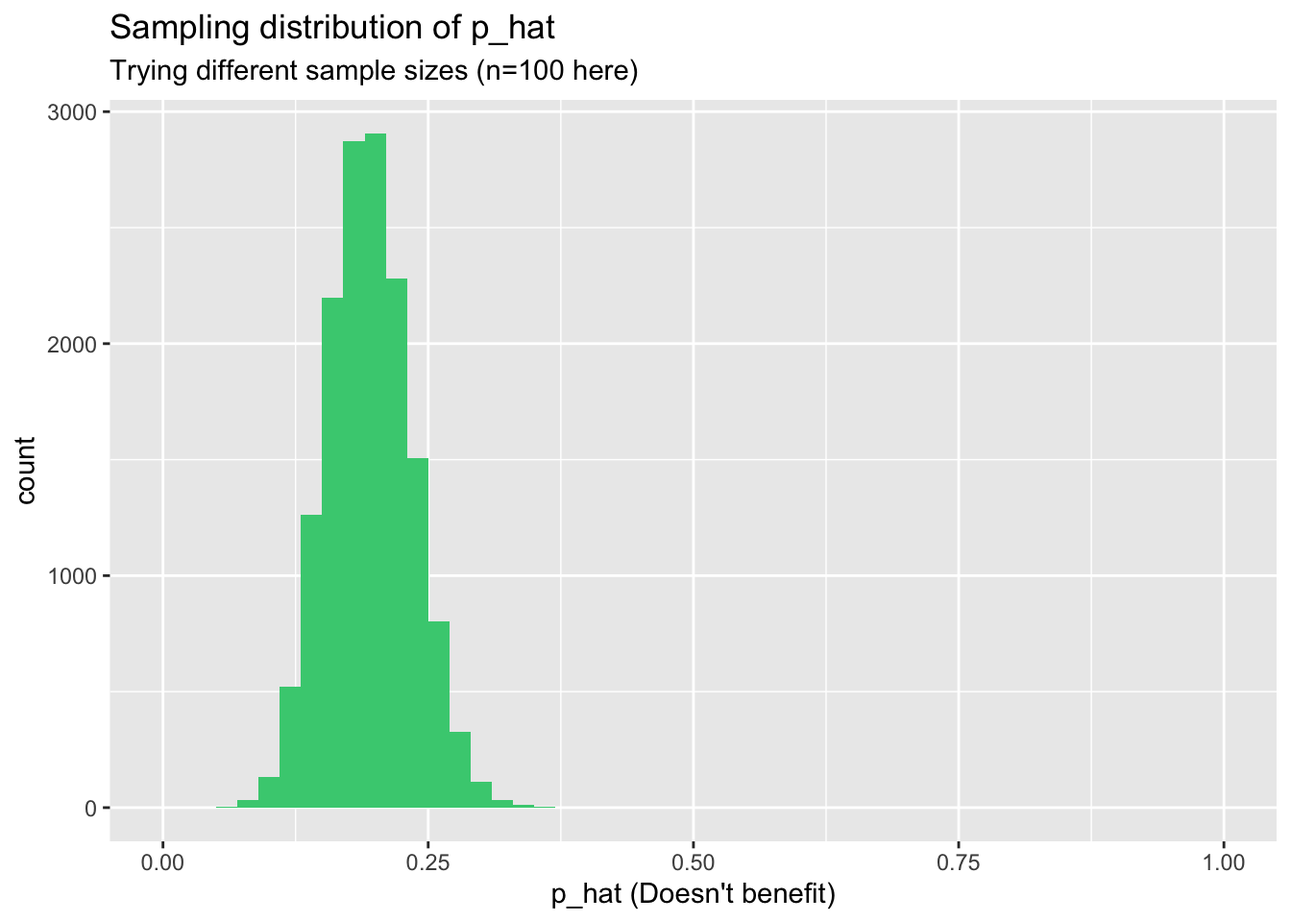
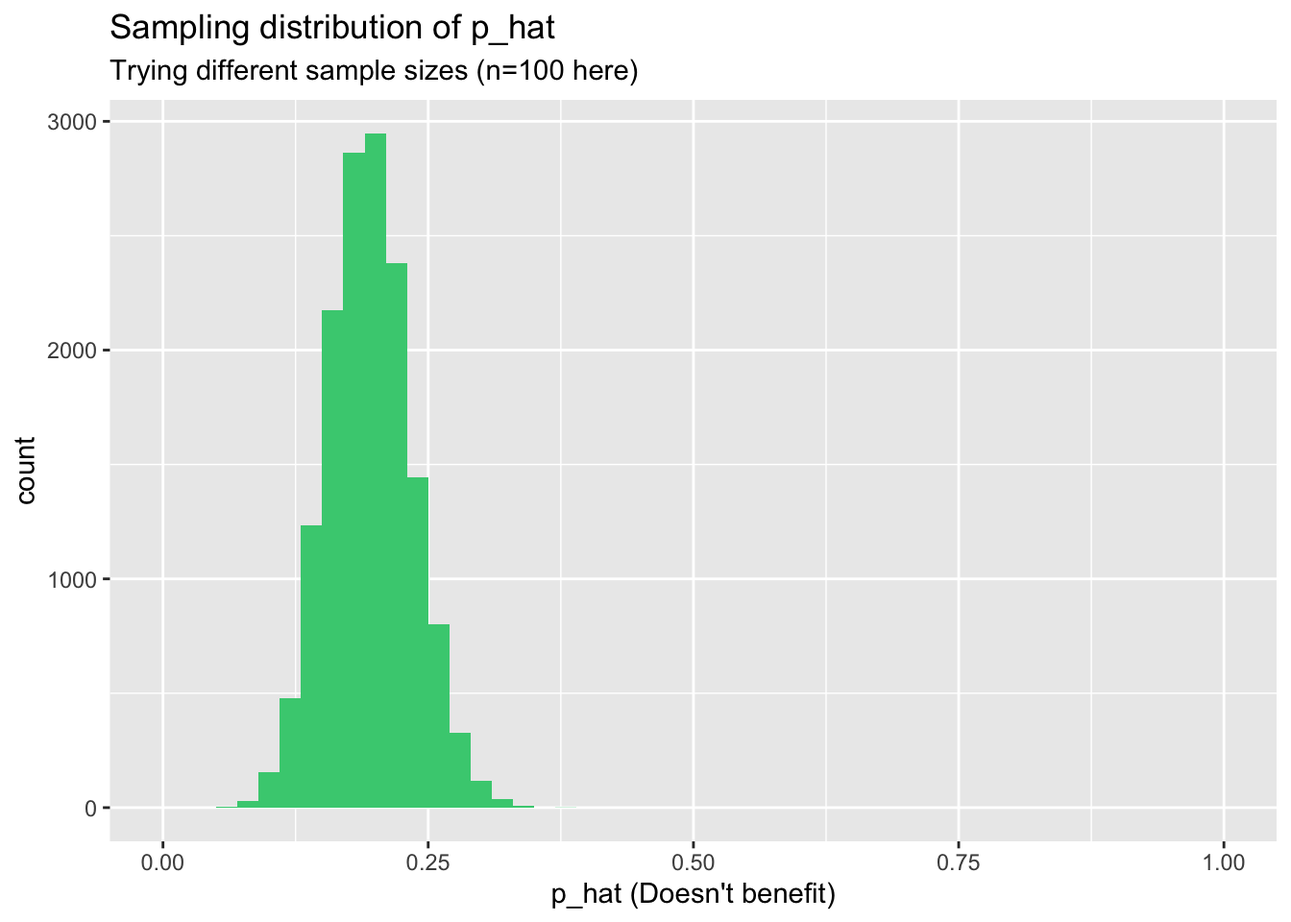
Lab 4 infer update

diff --git a/docs/S1YLab4/part-1---sampling-distributions.html b/docs/S1YLab4/part-1---sampling-distributions.html
@@ -6,7 +6,7 @@
   <meta http-equiv="X-UA-Compatible" content="IE=edge" />
   <title>Part 1 - Sampling Distributions | S1Y Lab 4</title>
   <meta name="description" content="Part 1 - Sampling Distributions | S1Y Lab 4" />
-  <meta name="generator" content="bookdown 0.35 and GitBook 2.6.7" />
+  <meta name="generator" content="bookdown 0.36 and GitBook 2.6.7" />
 
   <meta property="og:title" content="Part 1 - Sampling Distributions | S1Y Lab 4" />
   <meta property="og:type" content="book" />
@@ -220,8 +220,8 @@ We will first create our population assuming a population size of 100,000 (which
 <p>The name of the data frame is <code>global_monitor</code> and the name of the variable that contains responses to the question <em>"Do you believe that the work scientists do benefit people like you?"</em> is <code>scientist_work</code>.</p>
 <p><br></p>
 <p><strong>What would this line of code return? <code>c(rep(x, 1000), rep(y, 500))</code></strong></p>
-<div id="radio_ATRSJEHRZD" class="webex-radiogroup">
-<label><input type="radio" autocomplete="off" name="radio_ATRSJEHRZD" value=""></input> <span>vector of length 1000 all x</span></label><label><input type="radio" autocomplete="off" name="radio_ATRSJEHRZD" value="answer"></input> <span>vector of length 1500 with 1000 values of x and 500 values of y</span></label><label><input type="radio" autocomplete="off" name="radio_ATRSJEHRZD" value=""></input> <span>vector of length 500 all y</span></label><label><input type="radio" autocomplete="off" name="radio_ATRSJEHRZD" value=""></input> <span>matrix with 1000 rows of x and 500 columns of y</span></label>
+<div id="radio_QDGKFCEMBM" class="webex-radiogroup">
+<label><input type="radio" autocomplete="off" name="radio_QDGKFCEMBM" value=""></input> <span>vector of length 500 all y</span></label><label><input type="radio" autocomplete="off" name="radio_QDGKFCEMBM" value="answer"></input> <span>vector of length 1500 with 1000 values of x and 500 values of y</span></label><label><input type="radio" autocomplete="off" name="radio_QDGKFCEMBM" value=""></input> <span>matrix with 1000 rows of x and 500 columns of y</span></label><label><input type="radio" autocomplete="off" name="radio_QDGKFCEMBM" value=""></input> <span>vector of length 1000 all x</span></label>
 </div>
 <div class="webex-solution">
 <button>
@@ -282,8 +282,8 @@ Solution
 </div>
 <p><br></p>
 <p><strong>Think about how the proportions in your sample compare with the distribution of the population. Would you expect the sample distribution to be?</strong></p>
-<div id="radio_NBXYSMNLMF" class="webex-radiogroup">
-<label><input type="radio" autocomplete="off" name="radio_NBXYSMNLMF" value="answer"></input> <span>Similar to the population distribution</span></label><label><input type="radio" autocomplete="off" name="radio_NBXYSMNLMF" value=""></input> <span>Very different to the population distribution</span></label>
+<div id="radio_MVJAKRYVWT" class="webex-radiogroup">
+<label><input type="radio" autocomplete="off" name="radio_MVJAKRYVWT" value="answer"></input> <span>Similar to the population distribution</span></label><label><input type="radio" autocomplete="off" name="radio_MVJAKRYVWT" value=""></input> <span>Very different to the population distribution</span></label>
 </div>
 <div class="webex-solution">
 <button>
@@ -304,8 +304,8 @@ Hint
 <p>Depending on the 50 people selected, your estimate could be a bit above or a bit below the population proportion of 0.2. In general, though, the sample proportion turns out to be a pretty good estimate of the true population proportion, and you were able to get it by sampling less than 1% of the population, 50 out of 100000.</p>
 <p><br></p>
 <p><strong>Would you expect the sample proportion to match the sample proportion of another student's sample?</strong></p>
-<div id="radio_SRGJYVPGOV" class="webex-radiogroup">
-<label><input type="radio" autocomplete="off" name="radio_SRGJYVPGOV" value="answer"></input> <span>Similar but not necessarily the same</span></label><label><input type="radio" autocomplete="off" name="radio_SRGJYVPGOV" value=""></input> <span>Completely different</span></label><label><input type="radio" autocomplete="off" name="radio_SRGJYVPGOV" value=""></input> <span>Exactly the same</span></label>
+<div id="radio_GDTYPPSPNT" class="webex-radiogroup">
+<label><input type="radio" autocomplete="off" name="radio_GDTYPPSPNT" value=""></input> <span>Exactly the same</span></label><label><input type="radio" autocomplete="off" name="radio_GDTYPPSPNT" value=""></input> <span>Completely different</span></label><label><input type="radio" autocomplete="off" name="radio_GDTYPPSPNT" value="answer"></input> <span>Similar but not necessarily the same</span></label>
 </div>
 <div class="webex-solution">
 <button>
@@ -337,8 +337,8 @@ Solution
 <pre><code>## # A tibble: 2 × 3
 ##   scientist_work      n p_hat
 ##   &lt;chr&gt;           &lt;int&gt; &lt;dbl&gt;
-## 1 Benefits           39  0.78
-## 2 Doesn&#39;t benefit    11  0.22</code></pre>
+## 1 Benefits           41  0.82
+## 2 Doesn&#39;t benefit     9  0.18</code></pre>
 </div>
 <p><br></p>
 <p>Create 2 more samples, of size 100 and 1000 calling them <code>sample3</code> and <code>sample4</code>, and compare the proportion of people who do not believe that the work scientists do benefits them across all four samples.</p>
@@ -361,8 +361,8 @@ Solution
 <pre><code>## # A tibble: 2 × 3
 ##   scientist_work      n p_hat
 ##   &lt;chr&gt;           &lt;int&gt; &lt;dbl&gt;
-## 1 Benefits           77  0.77
-## 2 Doesn&#39;t benefit    23  0.23</code></pre>
+## 1 Benefits           81  0.81
+## 2 Doesn&#39;t benefit    19  0.19</code></pre>
 <div class="sourceCode" id="cb14"><pre class="sourceCode r"><code class="sourceCode r"><span id="cb14-1"><a href="part-1---sampling-distributions.html#cb14-1" tabindex="-1"></a>sample4 <span class="ot">&lt;-</span> global_monitor <span class="sc">%&gt;%</span> </span>
 <span id="cb14-2"><a href="part-1---sampling-distributions.html#cb14-2" tabindex="-1"></a>  <span class="fu">sample_n</span>(<span class="dv">1000</span>)</span>
 <span id="cb14-3"><a href="part-1---sampling-distributions.html#cb14-3" tabindex="-1"></a></span>
@@ -372,13 +372,13 @@ Solution
 <pre><code>## # A tibble: 2 × 3
 ##   scientist_work      n p_hat
 ##   &lt;chr&gt;           &lt;int&gt; &lt;dbl&gt;
-## 1 Benefits          798 0.798
-## 2 Doesn&#39;t benefit   202 0.202</code></pre>
+## 1 Benefits          789 0.789
+## 2 Doesn&#39;t benefit   211 0.211</code></pre>
 </div>
 <p><br></p>
 <p><strong>Looking at the new samples, of size 100 and 1000. Which would you think would provide a more precise estimate of the population mean?</strong></p>
-<div id="radio_QVUGFVOTRK" class="webex-radiogroup">
-<label><input type="radio" autocomplete="off" name="radio_QVUGFVOTRK" value=""></input> <span>Sample size 50</span></label><label><input type="radio" autocomplete="off" name="radio_QVUGFVOTRK" value=""></input> <span>Sample size 100</span></label><label><input type="radio" autocomplete="off" name="radio_QVUGFVOTRK" value="answer"></input> <span>Sample size 1000</span></label>
+<div id="radio_AQXQUBXEQH" class="webex-radiogroup">
+<label><input type="radio" autocomplete="off" name="radio_AQXQUBXEQH" value=""></input> <span>Sample size 50</span></label><label><input type="radio" autocomplete="off" name="radio_AQXQUBXEQH" value=""></input> <span>Sample size 100</span></label><label><input type="radio" autocomplete="off" name="radio_AQXQUBXEQH" value="answer"></input> <span>Sample size 1000</span></label>
 </div>
 <div class="webex-solution">
 <button>
@@ -389,29 +389,30 @@ Hint
 <p><br></p>
 <p>Not surprisingly, every time we take another random sample, you might get a different sample proportion. It's useful to get a sense of just how much variability in the sample proportions we should expect from sample to sample when estimating the population mean proportion in this way. The distribution of sample proportions, called the <em>sampling distribution (of the proportion)</em>, can help us understand this variability. See Section 5.1.2 <a href="https://www.openintro.org/redirect.php?go=os4_tablet&referrer=/stat/os4.php#page=181" target="_blank">OpenIntro Page 181</a></p>
 <p>Remember that in this lab we unusually had access to the population and therefore we can get an idea of the sampling distribution for the sample proportion by repeating the above steps many times.</p>
-<p>Here, we use the function <code>rep_sample_n</code> to take 15,000 different samples of size 50 from the population, calculate the proportion of <em>Science doesn't benefit</em> responses in each sample and store each result in a vector called <code>sample_props50</code>. The distribution of the proportions can then be visualised with a histogram.</p>
+<p>Here, we use the function <code>rep_sample_n</code>, which can be called from the <code>infer</code> package, to take 15,000 different samples of size 50 from the population, calculate the proportion of <em>Science doesn't benefit</em> responses in each sample and store each result in a vector called <code>sample_props50</code>. The distribution of the proportions can then be visualised with a histogram.</p>
 <p><strong>Note</strong> We specify that <code>replace = TRUE</code> since sampling distributions are constructed by sampling with replacement.</p>
 <p><br></p>
 </div>
 <div id="exercise-3" class="section level3 unnumbered hasAnchor">
 <h3>Exercise 3<a href="part-1---sampling-distributions.html#exercise-3" class="anchor-section" aria-label="Anchor link to header"></a></h3>
 <p>Run the following code to iterate 15000 samples of size 50 from the population.</p>
-<div class="sourceCode" id="cb16"><pre class="sourceCode r"><code class="sourceCode r"><span id="cb16-1"><a href="part-1---sampling-distributions.html#cb16-1" tabindex="-1"></a>sample_props50 <span class="ot">&lt;-</span> global_monitor <span class="sc">%&gt;%</span></span>
-<span id="cb16-2"><a href="part-1---sampling-distributions.html#cb16-2" tabindex="-1"></a>                    <span class="fu">rep_sample_n</span>(<span class="at">size =</span> <span class="dv">50</span>, <span class="at">reps =</span> <span class="dv">15000</span>, <span class="at">replace =</span> <span class="cn">TRUE</span>) <span class="sc">%&gt;%</span></span>
-<span id="cb16-3"><a href="part-1---sampling-distributions.html#cb16-3" tabindex="-1"></a>                    <span class="fu">count</span>(scientist_work) <span class="sc">%&gt;%</span></span>
-<span id="cb16-4"><a href="part-1---sampling-distributions.html#cb16-4" tabindex="-1"></a>                    <span class="fu">mutate</span>(<span class="at">p_hat =</span> n <span class="sc">/</span><span class="fu">sum</span>(n)) <span class="sc">%&gt;%</span></span>
-<span id="cb16-5"><a href="part-1---sampling-distributions.html#cb16-5" tabindex="-1"></a>                    <span class="fu">filter</span>(scientist_work <span class="sc">==</span> <span class="st">&quot;Doesn&#39;t benefit&quot;</span>)</span>
-<span id="cb16-6"><a href="part-1---sampling-distributions.html#cb16-6" tabindex="-1"></a></span>
-<span id="cb16-7"><a href="part-1---sampling-distributions.html#cb16-7" tabindex="-1"></a><span class="fu">ggplot</span>(<span class="at">data =</span> sample_props50, <span class="fu">aes</span>(<span class="at">x =</span> p_hat)) <span class="sc">+</span></span>
-<span id="cb16-8"><a href="part-1---sampling-distributions.html#cb16-8" tabindex="-1"></a>  <span class="fu">geom_histogram</span>(<span class="at">binwidth =</span> <span class="fl">0.05</span>, <span class="at">fill =</span> <span class="st">&quot;seagreen3&quot;</span>) <span class="sc">+</span></span>
-<span id="cb16-9"><a href="part-1---sampling-distributions.html#cb16-9" tabindex="-1"></a>  <span class="fu">labs</span>(<span class="at">x =</span> <span class="st">&quot;p_hat (Doesn&#39;t benefit)&quot;</span>,</span>
-<span id="cb16-10"><a href="part-1---sampling-distributions.html#cb16-10" tabindex="-1"></a>       <span class="at">title =</span> <span class="st">&quot;Sampling distribution of p_hat&quot;</span>,</span>
-<span id="cb16-11"><a href="part-1---sampling-distributions.html#cb16-11" tabindex="-1"></a>       <span class="at">subtitle =</span> <span class="st">&quot;Sample size = 50, Number of samples = 150&quot;</span>)</span></code></pre></div>
+<div class="sourceCode" id="cb16"><pre class="sourceCode r"><code class="sourceCode r"><span id="cb16-1"><a href="part-1---sampling-distributions.html#cb16-1" tabindex="-1"></a><span class="fu">library</span>(infer)</span>
+<span id="cb16-2"><a href="part-1---sampling-distributions.html#cb16-2" tabindex="-1"></a>sample_props50 <span class="ot">&lt;-</span> global_monitor <span class="sc">%&gt;%</span></span>
+<span id="cb16-3"><a href="part-1---sampling-distributions.html#cb16-3" tabindex="-1"></a>                    <span class="fu">rep_sample_n</span>(<span class="at">size =</span> <span class="dv">50</span>, <span class="at">reps =</span> <span class="dv">15000</span>, <span class="at">replace =</span> <span class="cn">TRUE</span>) <span class="sc">%&gt;%</span></span>
+<span id="cb16-4"><a href="part-1---sampling-distributions.html#cb16-4" tabindex="-1"></a>                    <span class="fu">count</span>(scientist_work) <span class="sc">%&gt;%</span></span>
+<span id="cb16-5"><a href="part-1---sampling-distributions.html#cb16-5" tabindex="-1"></a>                    <span class="fu">mutate</span>(<span class="at">p_hat =</span> n <span class="sc">/</span><span class="fu">sum</span>(n)) <span class="sc">%&gt;%</span></span>
+<span id="cb16-6"><a href="part-1---sampling-distributions.html#cb16-6" tabindex="-1"></a>                    <span class="fu">filter</span>(scientist_work <span class="sc">==</span> <span class="st">&quot;Doesn&#39;t benefit&quot;</span>)</span>
+<span id="cb16-7"><a href="part-1---sampling-distributions.html#cb16-7" tabindex="-1"></a></span>
+<span id="cb16-8"><a href="part-1---sampling-distributions.html#cb16-8" tabindex="-1"></a><span class="fu">ggplot</span>(<span class="at">data =</span> sample_props50, <span class="fu">aes</span>(<span class="at">x =</span> p_hat)) <span class="sc">+</span></span>
+<span id="cb16-9"><a href="part-1---sampling-distributions.html#cb16-9" tabindex="-1"></a>  <span class="fu">geom_histogram</span>(<span class="at">binwidth =</span> <span class="fl">0.05</span>, <span class="at">fill =</span> <span class="st">&quot;seagreen3&quot;</span>) <span class="sc">+</span></span>
+<span id="cb16-10"><a href="part-1---sampling-distributions.html#cb16-10" tabindex="-1"></a>  <span class="fu">labs</span>(<span class="at">x =</span> <span class="st">&quot;p_hat (Doesn&#39;t benefit)&quot;</span>,</span>
+<span id="cb16-11"><a href="part-1---sampling-distributions.html#cb16-11" tabindex="-1"></a>       <span class="at">title =</span> <span class="st">&quot;Sampling distribution of p_hat&quot;</span>,</span>
+<span id="cb16-12"><a href="part-1---sampling-distributions.html#cb16-12" tabindex="-1"></a>       <span class="at">subtitle =</span> <span class="st">&quot;Sample size = 50, Number of samples = 150&quot;</span>)</span></code></pre></div>
 <p>If you would like to adjust the bin width of your histogram to show a little more detail, you can do so by changing the <code>binwidth</code> argument in <code>geom_histogram</code>.</p>
 <p><br></p>
 <p><strong>How many elements are there in <code>sample_props50</code>?</strong></p>
-<div id="radio_FNJLOVSFIZ" class="webex-radiogroup">
-<label><input type="radio" autocomplete="off" name="radio_FNJLOVSFIZ" value=""></input> <span>50</span></label><label><input type="radio" autocomplete="off" name="radio_FNJLOVSFIZ" value=""></input> <span>100</span></label><label><input type="radio" autocomplete="off" name="radio_FNJLOVSFIZ" value=""></input> <span>1500</span></label><label><input type="radio" autocomplete="off" name="radio_FNJLOVSFIZ" value=""></input> <span>1000</span></label><label><input type="radio" autocomplete="off" name="radio_FNJLOVSFIZ" value="answer"></input> <span>15000</span></label>
+<div id="radio_ATHGSKHRTO" class="webex-radiogroup">
+<label><input type="radio" autocomplete="off" name="radio_ATHGSKHRTO" value=""></input> <span>50</span></label><label><input type="radio" autocomplete="off" name="radio_ATHGSKHRTO" value=""></input> <span>100</span></label><label><input type="radio" autocomplete="off" name="radio_ATHGSKHRTO" value=""></input> <span>1500</span></label><label><input type="radio" autocomplete="off" name="radio_ATHGSKHRTO" value=""></input> <span>1000</span></label><label><input type="radio" autocomplete="off" name="radio_ATHGSKHRTO" value="answer"></input> <span>15000</span></label>
 </div>
 <div class="webex-solution">
 <button>
@@ -421,8 +422,8 @@ Hint
 </div>
 <p><br></p>
 <p><strong>What distribution does the shape of the histogram most resemble?</strong></p>
-<div id="radio_JDXEGCNZYG" class="webex-radiogroup">
-<label><input type="radio" autocomplete="off" name="radio_JDXEGCNZYG" value=""></input> <span>Poisson</span></label><label><input type="radio" autocomplete="off" name="radio_JDXEGCNZYG" value=""></input> <span>Geometric</span></label><label><input type="radio" autocomplete="off" name="radio_JDXEGCNZYG" value=""></input> <span>Binomial</span></label><label><input type="radio" autocomplete="off" name="radio_JDXEGCNZYG" value="answer"></input> <span>Normal</span></label>
+<div id="radio_KYLXRDAFVZ" class="webex-radiogroup">
+<label><input type="radio" autocomplete="off" name="radio_KYLXRDAFVZ" value="answer"></input> <span>Normal</span></label><label><input type="radio" autocomplete="off" name="radio_KYLXRDAFVZ" value=""></input> <span>Poisson</span></label><label><input type="radio" autocomplete="off" name="radio_KYLXRDAFVZ" value=""></input> <span>Binomial</span></label><label><input type="radio" autocomplete="off" name="radio_KYLXRDAFVZ" value=""></input> <span>Geometric</span></label>
 </div>
 <div class="webex-solution">
 <button>
@@ -448,8 +449,8 @@ Hint
 <span id="cb17-11"><a href="part-1---sampling-distributions.html#cb17-11" tabindex="-1"></a>       <span class="at">subtitle =</span> <span class="st">&quot;Sample size = 50&quot;</span>)</span></code></pre></div>
 <p><br></p>
 <p><strong>Would you expect the distribution to significantly change if 50,000 samples were collected?</strong></p>
-<div id="radio_LXKDYZLUSE" class="webex-radiogroup">
-<label><input type="radio" autocomplete="off" name="radio_LXKDYZLUSE" value=""></input> <span>Yes</span></label><label><input type="radio" autocomplete="off" name="radio_LXKDYZLUSE" value="answer"></input> <span>No</span></label>
+<div id="radio_MSCXKAEIPB" class="webex-radiogroup">
+<label><input type="radio" autocomplete="off" name="radio_MSCXKAEIPB" value=""></input> <span>Yes</span></label><label><input type="radio" autocomplete="off" name="radio_MSCXKAEIPB" value="answer"></input> <span>No</span></label>
 </div>
 <div class="webex-solution">
 <button>
@@ -526,8 +527,8 @@ Solution
 </div>
 <p><br></p>
 <p><strong>When the sample size is larger, what happens to the center?</strong></p>
-<div id="radio_UGIHAXNUJX" class="webex-radiogroup">
-<label><input type="radio" autocomplete="off" name="radio_UGIHAXNUJX" value=""></input> <span>Increases</span></label><label><input type="radio" autocomplete="off" name="radio_UGIHAXNUJX" value=""></input> <span>Decreases</span></label><label><input type="radio" autocomplete="off" name="radio_UGIHAXNUJX" value="answer"></input> <span>Stays constant</span></label>
+<div id="radio_GAOXIWCTPY" class="webex-radiogroup">
+<label><input type="radio" autocomplete="off" name="radio_GAOXIWCTPY" value=""></input> <span>Increases</span></label><label><input type="radio" autocomplete="off" name="radio_GAOXIWCTPY" value=""></input> <span>Decreases</span></label><label><input type="radio" autocomplete="off" name="radio_GAOXIWCTPY" value="answer"></input> <span>Stays constant</span></label>
 </div>
 <div class="webex-solution">
 <button>
@@ -537,8 +538,8 @@ Hint
 </div>
 <p><br></p>
 <p><strong>When the sample size is larger, what happens to the spread?</strong></p>
-<div id="radio_HQMSWKJEIG" class="webex-radiogroup">
-<label><input type="radio" autocomplete="off" name="radio_HQMSWKJEIG" value=""></input> <span>Increases</span></label><label><input type="radio" autocomplete="off" name="radio_HQMSWKJEIG" value="answer"></input> <span>Decreases</span></label><label><input type="radio" autocomplete="off" name="radio_HQMSWKJEIG" value=""></input> <span>Stays constant</span></label>
+<div id="radio_RAVEAVKLXR" class="webex-radiogroup">
+<label><input type="radio" autocomplete="off" name="radio_RAVEAVKLXR" value=""></input> <span>Increases</span></label><label><input type="radio" autocomplete="off" name="radio_RAVEAVKLXR" value="answer"></input> <span>Decreases</span></label><label><input type="radio" autocomplete="off" name="radio_RAVEAVKLXR" value=""></input> <span>Stays constant</span></label>
 </div>
 <div class="webex-solution">
 <button>

diff --git a/docs/S1YLab4/part-2---confidence-intervals.html b/docs/S1YLab4/part-2---confidence-intervals.html
@@ -6,7 +6,7 @@
   <meta http-equiv="X-UA-Compatible" content="IE=edge" />
   <title>Part 2 - Confidence Intervals | S1Y Lab 4</title>
   <meta name="description" content="Part 2 - Confidence Intervals | S1Y Lab 4" />
-  <meta name="generator" content="bookdown 0.35 and GitBook 2.6.7" />
+  <meta name="generator" content="bookdown 0.36 and GitBook 2.6.7" />
 
   <meta property="og:title" content="Part 2 - Confidence Intervals | S1Y Lab 4" />
   <meta property="og:type" content="book" />
@@ -271,13 +271,13 @@ Solution
 <pre><code>## # A tibble: 2 × 3
 ##   climate_change_affects     n p_hat
 ##   &lt;chr&gt;                  &lt;int&gt; &lt;dbl&gt;
-## 1 No                        22 0.367
-## 2 Yes                       38 0.633</code></pre>
+## 1 No                        17 0.283
+## 2 Yes                       43 0.717</code></pre>
 </div>
 <p><br></p>
 <strong>What would you expect another student's proportion to be?</strong>
-<div id="radio_YIEQBVDSXI" class="webex-radiogroup">
-<label><input type="radio" autocomplete="off" name="radio_YIEQBVDSXI" value=""></input> <span>Identical</span></label><label><input type="radio" autocomplete="off" name="radio_YIEQBVDSXI" value=""></input> <span>Very different</span></label><label><input type="radio" autocomplete="off" name="radio_YIEQBVDSXI" value="answer"></input> <span>Slightly similar</span></label>
+<div id="radio_WDPILXLQBM" class="webex-radiogroup">
+<label><input type="radio" autocomplete="off" name="radio_WDPILXLQBM" value=""></input> <span>Very different</span></label><label><input type="radio" autocomplete="off" name="radio_WDPILXLQBM" value=""></input> <span>Identical</span></label><label><input type="radio" autocomplete="off" name="radio_WDPILXLQBM" value="answer"></input> <span>Slightly similar</span></label>
 </div>
 <div class="webex-solution">
 <button>
@@ -302,14 +302,14 @@ Hint
 <p>However, some conditions need to be made for the confidence interval to be valid.</p>
 <p><br></p>
 <strong>What conditions must be met for this confidence to be valid?</strong>
-<div id="radio_XHERPNKRSK" class="webex-radiogroup">
-<label><input type="radio" autocomplete="off" name="radio_XHERPNKRSK" value=""></input> <span>The distribution is skewed but it is allowed with a small sample size</span></label><label><input type="radio" autocomplete="off" name="radio_XHERPNKRSK" value=""></input> <span>Data comes from a binomial distribution</span></label><label><input type="radio" autocomplete="off" name="radio_XHERPNKRSK" value="answer"></input> <span>Independence assumption is valid</span></label>
+<div id="radio_KHCQNBHGHJ" class="webex-radiogroup">
+<label><input type="radio" autocomplete="off" name="radio_KHCQNBHGHJ" value=""></input> <span>Data comes from a binomial distribution</span></label><label><input type="radio" autocomplete="off" name="radio_KHCQNBHGHJ" value=""></input> <span>The distribution is skewed but it is allowed with a small sample size</span></label><label><input type="radio" autocomplete="off" name="radio_KHCQNBHGHJ" value="answer"></input> <span>Independence assumption is valid</span></label>
 </div>
-<div id="radio_BTQSMVDXMX" class="webex-radiogroup">
-<label><input type="radio" autocomplete="off" name="radio_BTQSMVDXMX" value="answer"></input> <span>Data comes from a normal distribution</span></label>
+<div id="radio_BGRSNVCROJ" class="webex-radiogroup">
+<label><input type="radio" autocomplete="off" name="radio_BGRSNVCROJ" value="answer"></input> <span>Data comes from a normal distribution</span></label>
 </div>
-<div id="radio_JCXJKZOZMB" class="webex-radiogroup">
-<label><input type="radio" autocomplete="off" name="radio_JCXJKZOZMB" value="answer"></input> <span>The disribution is skewed but it is allowed with a large sample size</span></label>
+<div id="radio_WZUYNJOUOC" class="webex-radiogroup">
+<label><input type="radio" autocomplete="off" name="radio_WZUYNJOUOC" value="answer"></input> <span>The disribution is skewed but it is allowed with a large sample size</span></label>
 </div>
 <div class="webex-solution">
 <button>
@@ -340,8 +340,8 @@ Hint
 <span id="cb28-14"><a href="part-2---confidence-intervals.html#cb28-14" tabindex="-1"></a>ci</span></code></pre></div>
 <p><br></p>
 <strong>If you were to repeat this simulation again and again, would each confidence interval capture the true population proportion of US adults who think climate change affects their local community?</strong>
-<div id="radio_WSPBTYKCAK" class="webex-radiogroup">
-<label><input type="radio" autocomplete="off" name="radio_WSPBTYKCAK" value="answer"></input> <span>Each would with 95% confidence</span></label><label><input type="radio" autocomplete="off" name="radio_WSPBTYKCAK" value=""></input> <span>Yes, each certainly would</span></label><label><input type="radio" autocomplete="off" name="radio_WSPBTYKCAK" value=""></input> <span>No, each certainly wouldn't</span></label>
+<div id="radio_QCODNZWCQF" class="webex-radiogroup">
+<label><input type="radio" autocomplete="off" name="radio_QCODNZWCQF" value="answer"></input> <span>Each would with 95% confidence</span></label><label><input type="radio" autocomplete="off" name="radio_QCODNZWCQF" value=""></input> <span>Yes, each certainly would</span></label><label><input type="radio" autocomplete="off" name="radio_QCODNZWCQF" value=""></input> <span>No, each certainly wouldn't</span></label>
 </div>
 <div class="webex-solution">
 <button>
@@ -353,8 +353,8 @@ Hint
 <p>If we were to collect all the confidence intervals produced in the console above by all the students in S1Y, each student should have produced a slightly different confidence interval because they were each based on different random samples.</p>
 <p><br></p>
 <strong>What proportion of those intervals would you expect to capture the true population mean?</strong>
-<div id="radio_ZRETGCXQON" class="webex-radiogroup">
-<label><input type="radio" autocomplete="off" name="radio_ZRETGCXQON" value=""></input> <span>5%</span></label><label><input type="radio" autocomplete="off" name="radio_ZRETGCXQON" value="answer"></input> <span>95%</span></label><label><input type="radio" autocomplete="off" name="radio_ZRETGCXQON" value=""></input> <span>2.5%</span></label>
+<div id="radio_HGGQIHDXIF" class="webex-radiogroup">
+<label><input type="radio" autocomplete="off" name="radio_HGGQIHDXIF" value="answer"></input> <span>95%</span></label><label><input type="radio" autocomplete="off" name="radio_HGGQIHDXIF" value=""></input> <span>2.5%</span></label><label><input type="radio" autocomplete="off" name="radio_HGGQIHDXIF" value=""></input> <span>5%</span></label>
 </div>
 <div class="webex-solution">
 <button>
@@ -402,8 +402,8 @@ Hint
 <span id="cb29-26"><a href="part-2---confidence-intervals.html#cb29-26" tabindex="-1"></a><span class="fu">c</span>(<span class="st">&quot;99% CI&quot;</span>, <span class="fu">paste</span>(<span class="fu">round</span>(ci,<span class="dv">3</span>)))</span></code></pre></div>
 <p><br></p>
 <strong>Which interval would you expect to be wider?</strong>
-<div id="radio_THWMJBAIOH" class="webex-radiogroup">
-<label><input type="radio" autocomplete="off" name="radio_THWMJBAIOH" value="answer"></input> <span>Interval with a larger confidence level</span></label><label><input type="radio" autocomplete="off" name="radio_THWMJBAIOH" value=""></input> <span>Interval with a larger sample size</span></label>
+<div id="radio_ALAAPZMMHX" class="webex-radiogroup">
+<label><input type="radio" autocomplete="off" name="radio_ALAAPZMMHX" value="answer"></input> <span>Interval with a larger confidence level</span></label><label><input type="radio" autocomplete="off" name="radio_ALAAPZMMHX" value=""></input> <span>Interval with a larger sample size</span></label>
 </div>
 <div class="webex-solution">
 <button>

diff --git a/docs/S1YLab4/404.html b/docs/S1YLab4/404.html
@@ -6,7 +6,7 @@
   <meta http-equiv="X-UA-Compatible" content="IE=edge" />
   <title>Page not found | S1Y Lab 4</title>
   <meta name="description" content="Page not found | S1Y Lab 4" />
-  <meta name="generator" content="bookdown 0.35 and GitBook 2.6.7" />
+  <meta name="generator" content="bookdown 0.36 and GitBook 2.6.7" />
 
   <meta property="og:title" content="Page not found | S1Y Lab 4" />
   <meta property="og:type" content="book" />

diff --git a/docs/S1YLab4/group-tasks.html b/docs/S1YLab4/group-tasks.html
@@ -6,7 +6,7 @@
   <meta http-equiv="X-UA-Compatible" content="IE=edge" />
   <title>Group Tasks | S1Y Lab 4</title>
   <meta name="description" content="Group Tasks | S1Y Lab 4" />
-  <meta name="generator" content="bookdown 0.35 and GitBook 2.6.7" />
+  <meta name="generator" content="bookdown 0.36 and GitBook 2.6.7" />
 
   <meta property="og:title" content="Group Tasks | S1Y Lab 4" />
   <meta property="og:type" content="book" />

diff --git a/docs/S1YLab4/index.html b/docs/S1YLab4/index.html
@@ -6,7 +6,7 @@
   <meta http-equiv="X-UA-Compatible" content="IE=edge" />
   <title>S1Y Lab 4</title>
   <meta name="description" content="S1Y Lab 4" />
-  <meta name="generator" content="bookdown 0.35 and GitBook 2.6.7" />
+  <meta name="generator" content="bookdown 0.36 and GitBook 2.6.7" />
 
   <meta property="og:title" content="S1Y Lab 4" />
   <meta property="og:type" content="book" />
